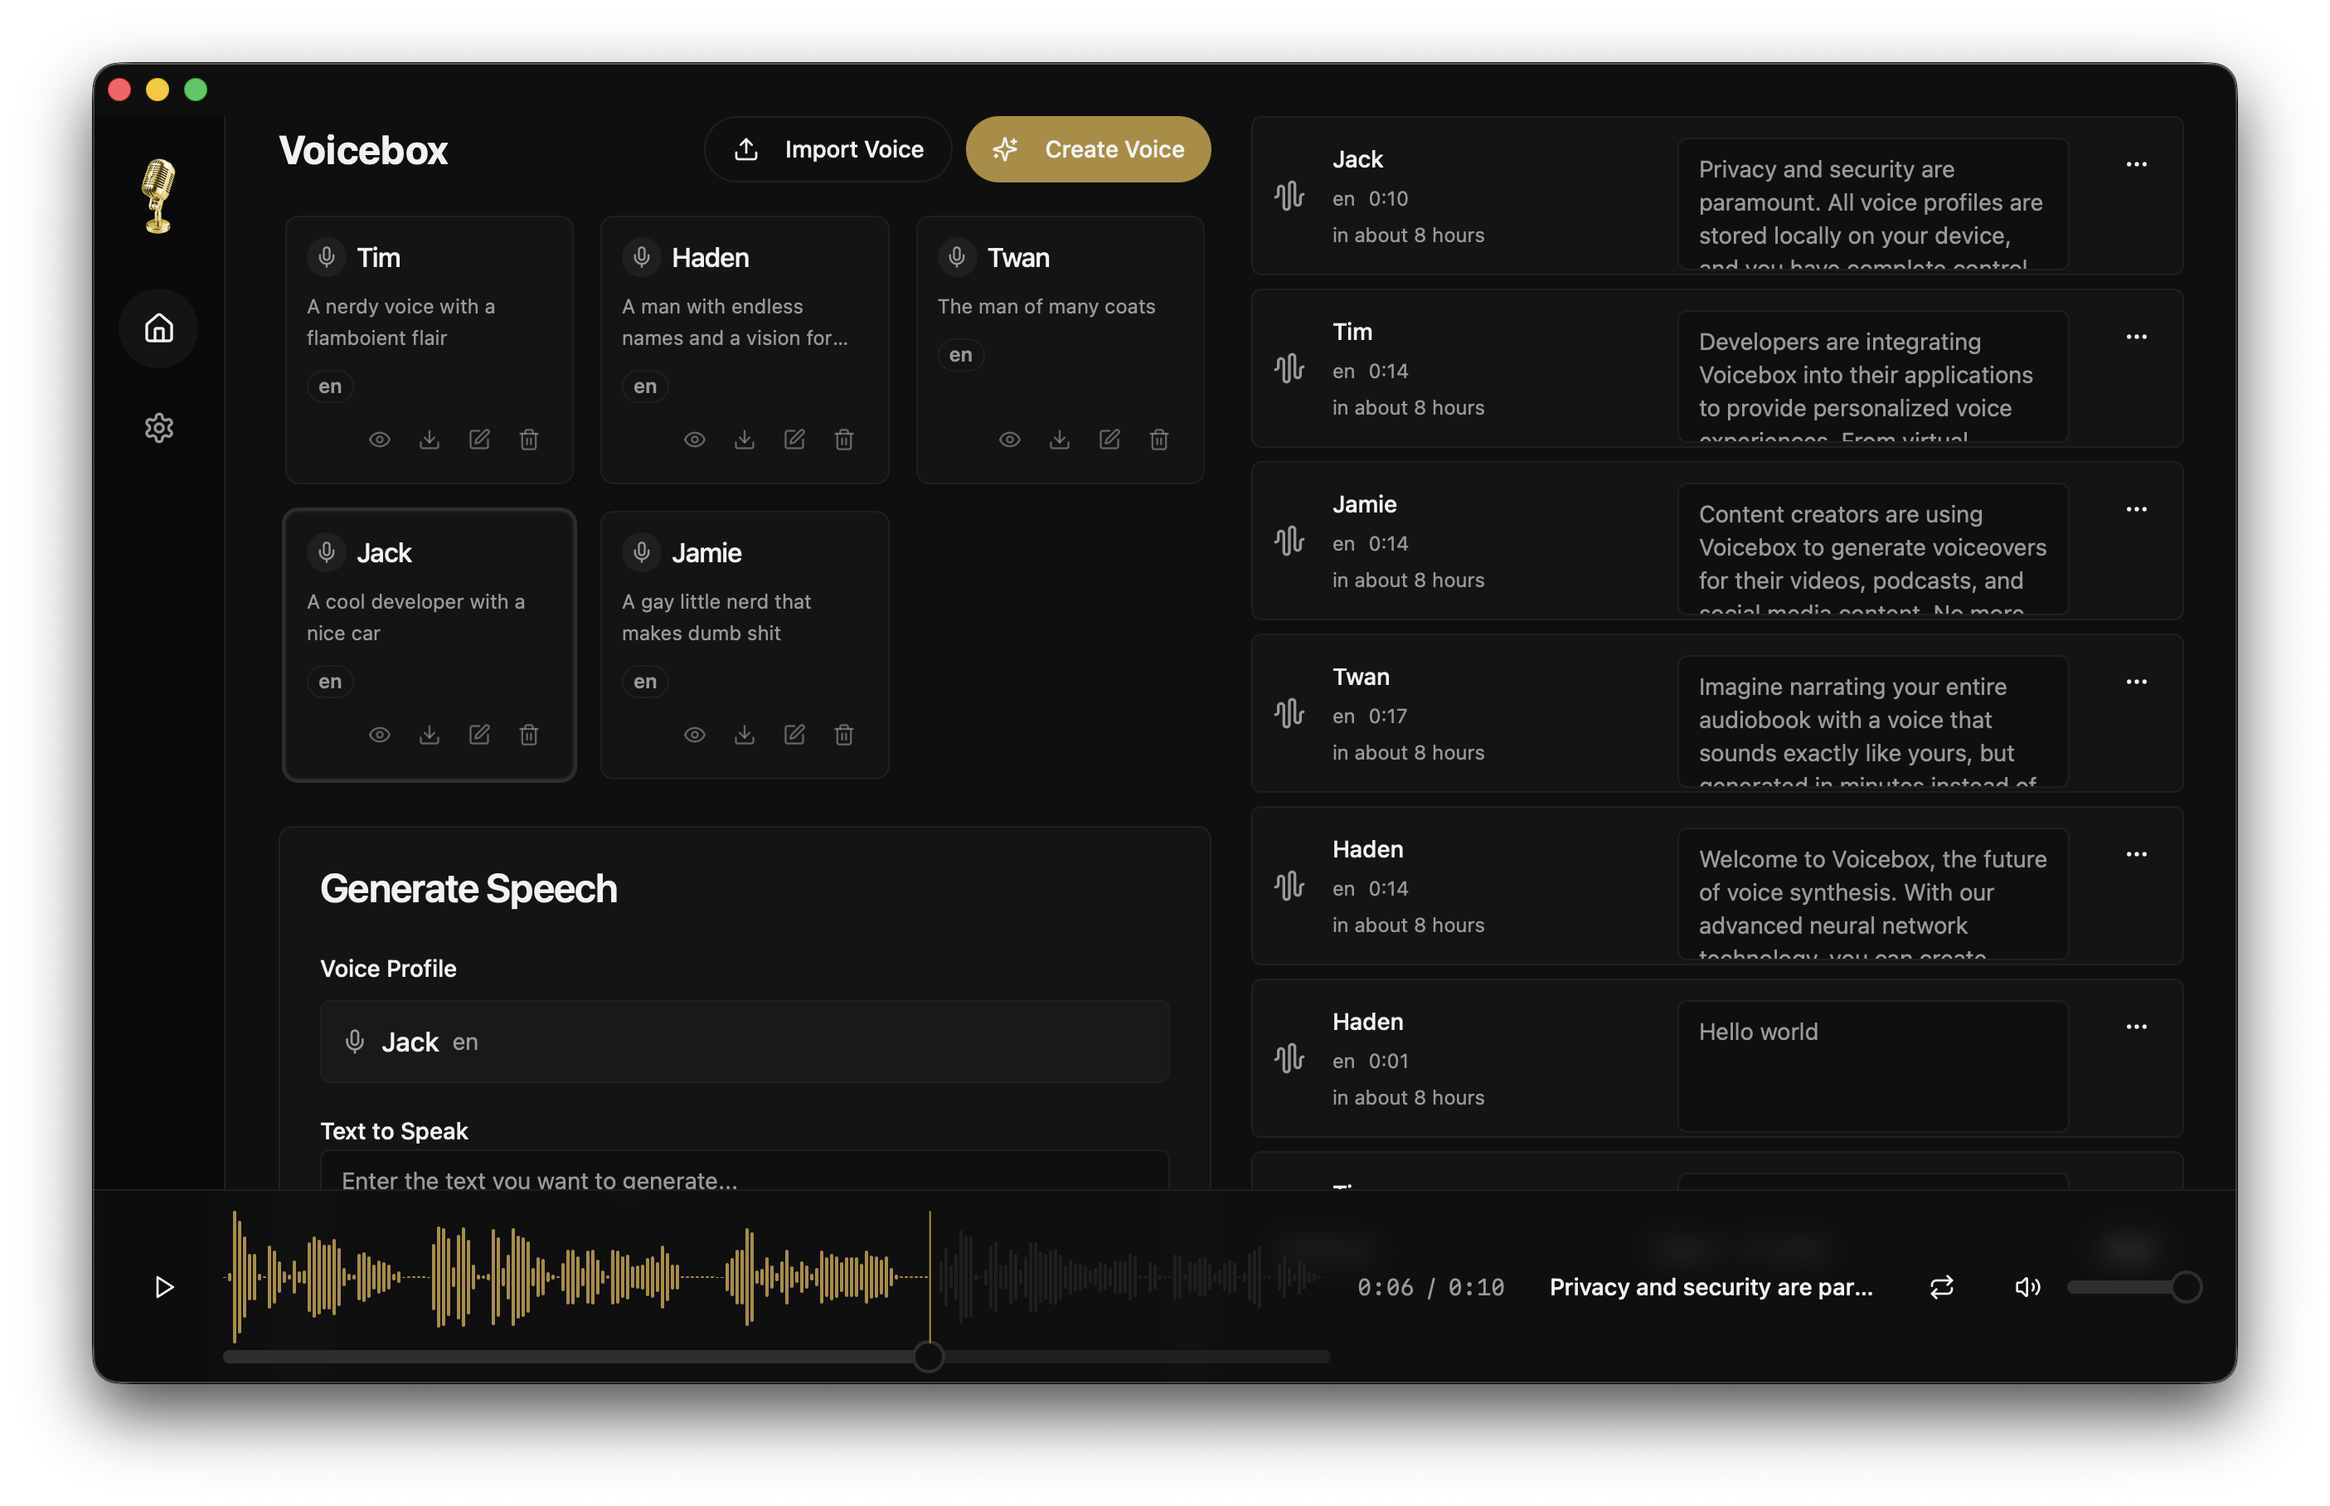
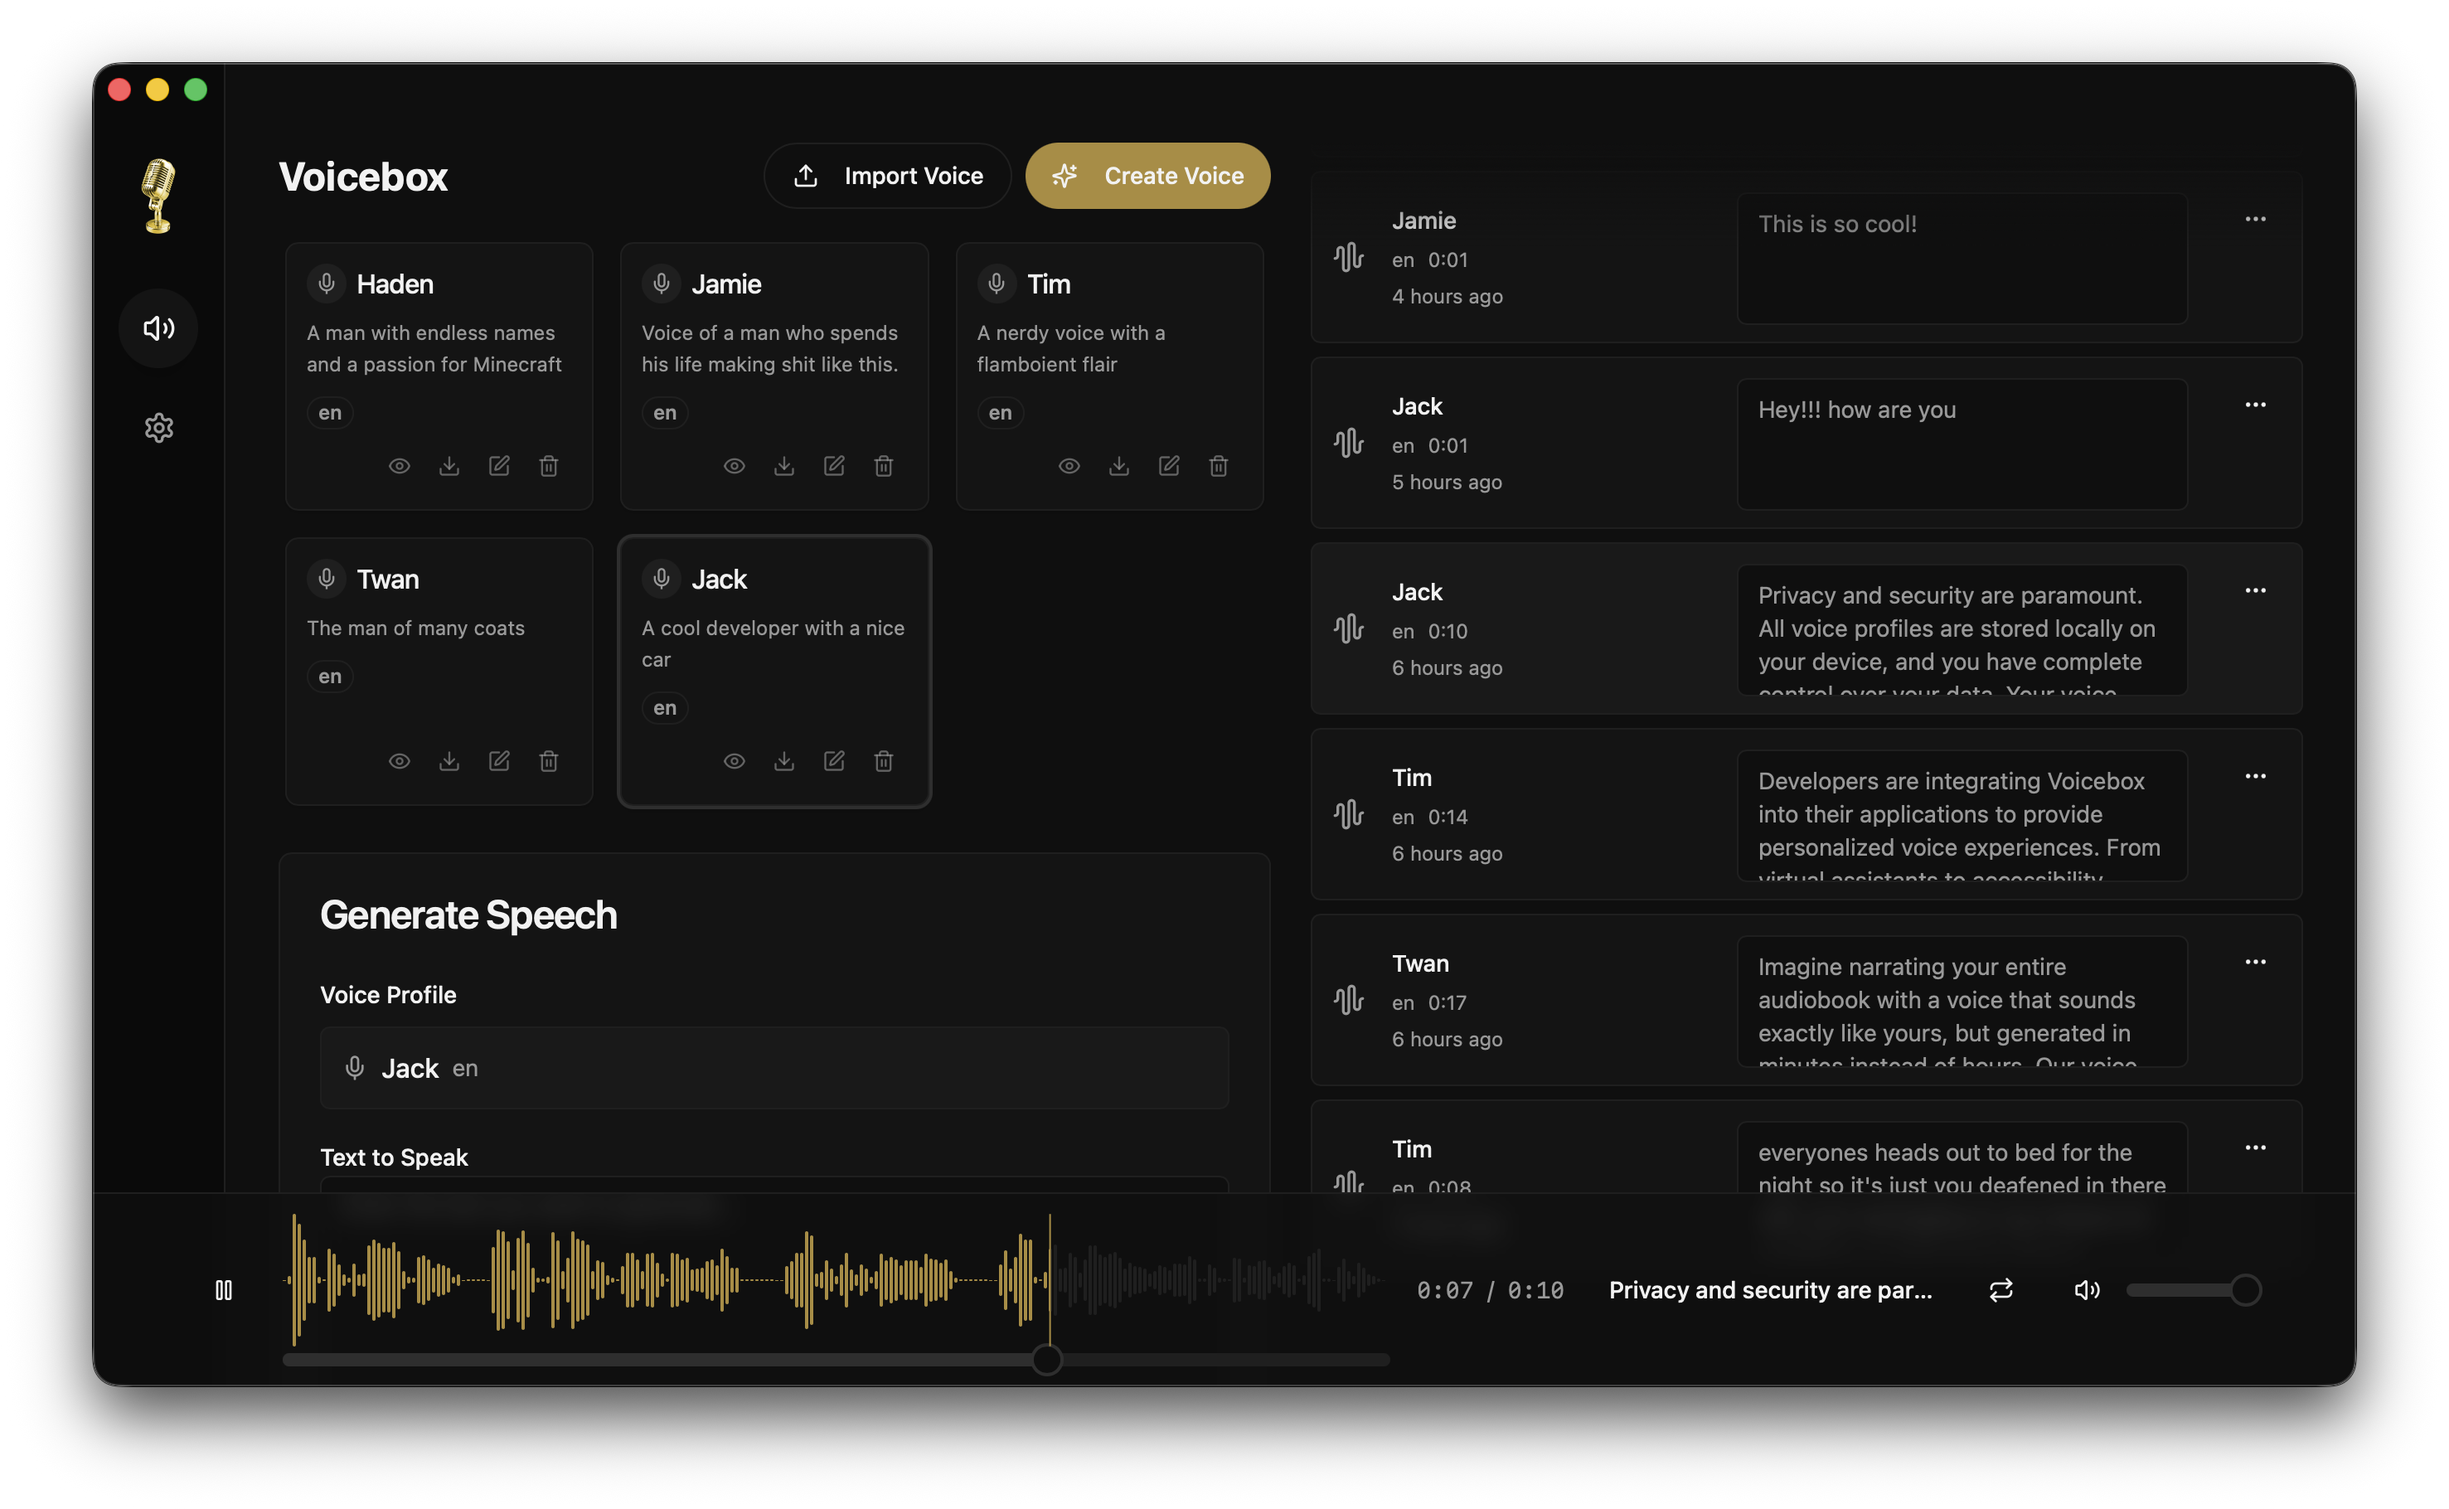
Update date formatting logic and replace binary assets
- Enhanced the formatDate function to handle date strings without timezone information by treating them as UTC.
- Updated binary assets including screenshots and application images for improved visual representation.

diff --git a/app/src/lib/utils/format.ts b/app/src/lib/utils/format.ts
@@ -7,7 +7,22 @@ export function formatDuration(seconds: number): string {
 }
 
 export function formatDate(date: string | Date): string {
-  return formatDistance(new Date(date), new Date(), { addSuffix: true });
+  // Parse the date string - if it doesn't have timezone info, treat it as UTC
+  let dateObj: Date;
+  if (typeof date === 'string') {
+    // If the string doesn't end with Z or have timezone offset, assume it's UTC
+    const dateStr = date.trim();
+    if (!dateStr.includes('Z') && !dateStr.match(/[+-]\d{2}:\d{2}$/)) {
+      // No timezone info, treat as UTC
+      dateObj = new Date(dateStr + 'Z');
+    } else {
+      dateObj = new Date(dateStr);
+    }
+  } else {
+    dateObj = date;
+  }
+  
+  return formatDistance(dateObj, new Date(), { addSuffix: true }).replace(/^about /i, '');
 }
 
 export function formatFileSize(bytes: number): string {
